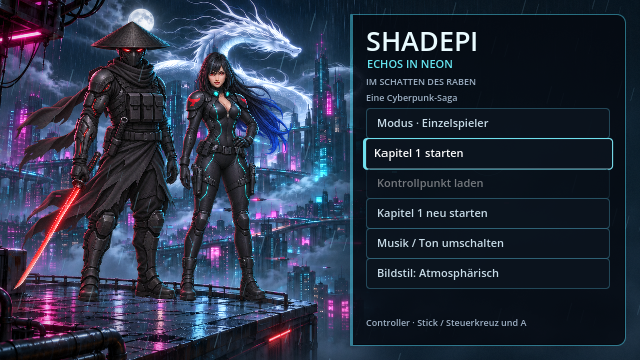
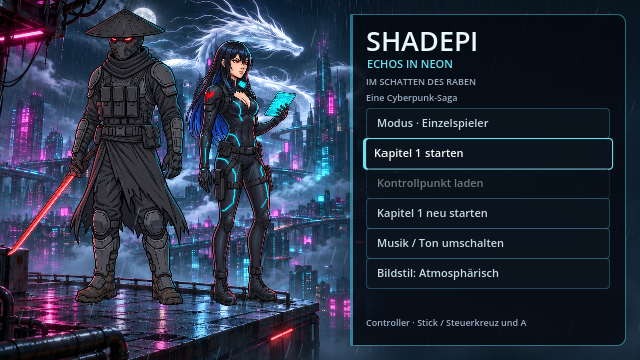
fix: Hauptmenü an Figurenreferenzen anpassen und Mausbewegung entfernen

Changed region(s): [[0.0, 0.0, 0.5625, 1.0]]

diff --git a/docs/live-startmenue.md b/docs/live-startmenue.md
@@ -4,21 +4,22 @@
 
 Das Menü verwendet zwei getrennte Bildquellen: `assets/menu/start-city.png` für Skyline und weißen Drachen sowie `assets/menu/start-heroes.png` für die freigestellten Figuren. Die früher im Stadtbild eingebrannten Personen sind entfernt.
 
-Shadepis Darstellung orientiert sich an der Figur aus `03-Berschreibung-Shadepi.pdf` und den archivierten Referenzen: breiter schwarzer Kasa, segmentierte Maske mit roten Augenlinsen, moderne taktische Weste, Taschen und dunkle Stoffbahnen. Raven ist relativ zu Shadepi kleiner dargestellt; ihre verbindliche Größe bleibt 160 cm. Lange schwarz-blaue Haare, rote Augen, goldfarbenes Septum-Piercing, rote Schulterembleme und Cyan-Linien folgen den Referenzblättern.
+Die aktuelle Figurenebene folgt den beiden am 7. November 2026 im Chat beigefügten Vorlagen: Shadepis Referenzblatt in Bereitschaftshaltung und Raven mit Tablet im Netrunner-Raum. Der gezeichnete Stil, Shadepis flacher schwarzer Kasa, die segmentierte Maske mit roten Augenlinsen, taktische Weste und das gesenkte Laser-Katana sind übernommen. Raven trägt den schwarzen Anzug mit Cyan-Linien, roten Schulteremblemen, rechteckigen Kragenmodulen und Holstern. Schwarz-blaue Haare, rote Augen, goldfarbenes Septum und das leuchtende Tablet entsprechen der neuen Vorlage. Ihre verbindliche Größe bleibt 160 cm.
+
+Die beiden neuen Referenzen wurden als Chatbilder verwendet; diese Seite behauptet keine zusätzliche Archivierung ihrer Originaldateien. Gameplay-Sprites, Tower und Zwischensequenzen bleiben bei dieser Menüänderung unverändert.
 
 ## Bewegung und Bedienung
 
-- Die Maus steuert eine gegensinnige Verschiebung von Stadt und Figuren. Menüfokus per Tastatur oder Controller erzeugt ebenfalls eine Reaktion.
-- Ein unterteiltes Figurenmesh verformt äußere Haarsträhnen, Schalenden und freie Stoffbereiche. Gesichter und Füße bleiben dabei verankert.
+- Figuren und Dach bleiben an festen Positionen. Weder Mausbewegungen noch Klicks oder Menüfokus verschieben sie.
+- Die Figurenebene ist eine unverformte Illustration; das frühere Figurenmesh mit Windverformung wird nicht mehr verwendet. Beide Fußpaare bleiben innerhalb der Dachkante.
 - Regen in mehreren Geschwindigkeiten, Flugverkehr und kleine Wasserringe beleben das Dach. Ein separater Shader ergänzt Nebel, Neonlicht und eine dezente Vignette unterhalb der Menüschrift.
 - Fokus und Hover erhalten eine sichtbare Kontur und eine kurze Skalierungsanimation. Klicks erzeugen einen kleinen Lichtimpuls.
 - `Reduziert` deaktiviert den zusätzlichen Bildschirmfilter und reduziert Regen und Bewegung. Verdeckte Startmenüs stoppen ihre Animations- und Eingabeverarbeitung vollständig.
 - Kapitel 1 nutzt denselben Menürahmen wie die anderen Szenen. Seine vorgemerkte Koop-Auswahl bleibt beim Pausieren erhalten; die Startgrafik erscheint nur vor Spielbeginn.
+- Im Hauptmenü läuft `Level.mp3`, dieselbe Datei wie am See und im Finale. Der bisherige Titel `menu.mp3` bleibt im Musikordner erhalten.
 
 ## Visuell prüfen
 
-`godot --audio-driver Dummy --script res://tools/menu_gallery.gd` benötigt ein Display mit echtem Renderer (auch Xvfb/Mesa ist geeignet). Das Werkzeug schreibt neutrale, Wind-, Fokus-, reduzierte und Pause-Aufnahmen sowie die vier äußersten Parallaxpositionen nach `/tmp/shadepi-menu-*.png`. Die Figuren sind gemeinsam so skaliert, dass beide Fußpaare auch bei maximaler Mausbewegung innerhalb der Dachkante stehen. Diese Positionen wurden im OpenGL-Renderer visuell geprüft. Die automatisierten Gameplay-Prüfungen kontrollieren zusätzlich Parallax, Grafikoptionen, den angehaltenen Hintergrund und den Kapitel-1-Menüablauf.
-
-Geprüft mit Godot 4.7.2: 303 Gameplay-/Menüprüfungen, 46 Fahrzeugprüfungen, 240 Story-Prüfungen und 20 NPC-/Dive-Prüfungen ohne Fehler. Die Screenshots wurden zusätzlich unter OpenGL Compatibility mit Xvfb/Mesa gerendert; dabei wurden auch die beiden neuen Shader ausgeführt.
+`godot --audio-driver Dummy --script res://tools/menu_gallery.gd` benötigt ein Display mit echtem Renderer (auch Xvfb/Mesa ist geeignet). Das Werkzeug schreibt neutrale, Wetter-, Fokus-, reduzierte und Pause-Aufnahmen sowie Ansichten mit Mausbewegungen zu allen vier Ecken nach `/tmp/shadepi-menu-*.png`. Die Darstellung wurde mit Godot 4.7.2 im OpenGL-Renderer kontrolliert. Die bestehenden Gameplay-Prüfungen kontrollieren zusätzlich unveränderte Figuren-/Dachpositionen in allen drei Qualitätsstufen, den gestoppten Hintergrund, den Kapitel-1-Menüablauf und die identische Musikzuordnung für Menü und See-Finale.
 
 Die neuen Menüillustrationen wurden aus den vorhandenen Quellen erstellt; die unveränderten Nutzerquellen bleiben im Universum-Archiv dokumentiert. Gameplay-Sprites werden von dieser Menüüberarbeitung nicht ersetzt.

diff --git a/assets/music/README.md b/assets/music/README.md
@@ -1,19 +1,19 @@
 # Musikzuordnung
 
-Das Spiel verwendet die sechs MP3-Dateien in diesem Ordner direkt. Eine Datei wird für mehrere passende Abschnitte wiederverwendet; Kopien sind nicht nötig.
+Das Spiel lädt die zugeordneten MP3-Dateien in diesem Ordner direkt. Eine Datei wird für mehrere passende Abschnitte wiederverwendet; Kopien sind nicht nötig. Das Hauptmenü nutzt jetzt dieselbe Musik wie das Finale am See.
 
 | Datei | Verwendung |
 | --- | --- |
-| `menu.mp3` | Hauptmenü |
+| `menu.mp3` | Aufbewahrter bisheriger Menütitel; aktuell nicht zugeordnet |
 | `Boss.mp3` | alle Bosskämpfe: Chrome Jackal und Kenzō |
 | `Fight.mp3` | normale Kämpfe, Deep Dive, Hinterhalt und Fahrzeugverfolgung |
-| `Level.mp3` | Kapitel 1, Garage, See und ruhige Abschlussmomente |
+| `Level.mp3` | Hauptmenü, Kapitel 1, Garage, See und ruhige Abschlussmomente |
 | `Level2.mp3` | Industriegebiet, Ravens Versteck, Hangar und Tower-Erkundung |
 | `Level3.mp3` | Pakt, Heiligtum, Echo, Flug und Flucht |
 
 ## Ablauf im Spiel
 
-- Beim Öffnen des Hauptmenüs läuft `menu.mp3`.
+- Beim Öffnen des Hauptmenüs läuft `Level.mp3`, identisch zum Finale am See.
 - Sobald ein normaler Kampf beginnt, wechselt die Musik zu `Fight.mp3`.
 - Bei jedem Bosskampf läuft `Boss.mp3`.
 - In gemischten Abschnitten wechselt die Musik erst beim tatsächlichen Kampfbeginn. Die Tower-Erkundung nutzt beispielsweise `Level2.mp3`; bei den Aufzugwachen beginnt `Fight.mp3`.

diff --git a/README.md b/README.md
@@ -22,7 +22,7 @@ Im Spiel gibt es ein Startmenü mit Einzelspieler und Lokal-Koop, eine gemeinsam
 
 **Kartenkorrekturen:** Das Versteck hat passende Möbelproportionen; Bingo Street geht mit durchgehender Bodenkante in die Gasse über. [Vergleich im Spiel](docs/karten-proportionen.md).
 
-Das Startmenü zeigt Shadepi und Raven vor einer Neonstadt mit weißem Drachen. Mausbewegungen verschieben Stadt und Figuren gegeneinander; Ravens Haare und Shadepis Schal bewegen sich im Wind. Mehrschichtiger Regen, Wasserreflexe und Neonlicht ergänzen die Szene. Die Menüknöpfe reagieren auf Maus und Controller-Fokus. Der vorhandene Bildstil-Schalter reduziert bei Bedarf Bewegung, Regen und Filter. [Vorschau und technische Hinweise](docs/live-startmenue.md).
+Das Startmenü zeigt Shadepi in Bereitschaftshaltung und Raven mit Tablet nach den aktuellen Figurenreferenzen vor einer Neonstadt mit weißem Drachen. Figuren und Dach bleiben fest verankert; die Maus verschiebt oder verformt sie nicht. Regen, Flugverkehr, Wasserreflexe und Neonlicht beleben die Szene. Die Menüknöpfe reagieren auf Maus und Controller-Fokus. Dazu läuft die Musik des Finales am See. [Vorschau und technische Hinweise](docs/live-startmenue.md).
 
 ## Geschichte und Spielumfang
 

diff --git a/CHANGELOG.md b/CHANGELOG.md
@@ -1,5 +1,12 @@
 # Versionshinweise
 
+## Hauptmenü – Figurenreferenzen und ruhiger Bildaufbau · 7. November 2026
+
+- Neue Menüillustration nach den aktuellen Nutzerbildern: Shadepi in Bereitschaftshaltung mit passender segmentierter Maske; Raven mit Tablet, Referenzgesicht, schwarz-blauen Haaren und taktischem Anzug im gezeichneten Stil.
+- Maus-Parallax und Figurenverformung entfernt. Figuren und Dach bleiben fest, während Regen, Flugverkehr und Licht weiter animiert werden.
+- Hauptmenü verwendet die Musik des See-Finales (`Level.mp3`); bisherige Musikdatei bleibt erhalten.
+- Vor Umsetzung mit GitHub auf v0.18.0 synchronisiert. Tower, Kampagne und Zwischensequenzen werden durch diese Änderung nicht bearbeitet.
+
 ## v0.18.0 – ClaudeHelper: Zwischensequenzen statt Comicseiten · 6. November 2026
 
 - Alle Story-Dialoge in Kapitel 1, 2 und der Kampagne (3–7) sind jetzt inszenierte Szenen im Spiel; die Comic-Einblendungen der Dialoge entfallen (`comic_texture` liefert keine Bilder mehr, `Story.DIALOGUE`/`PANELS` entfernt).
